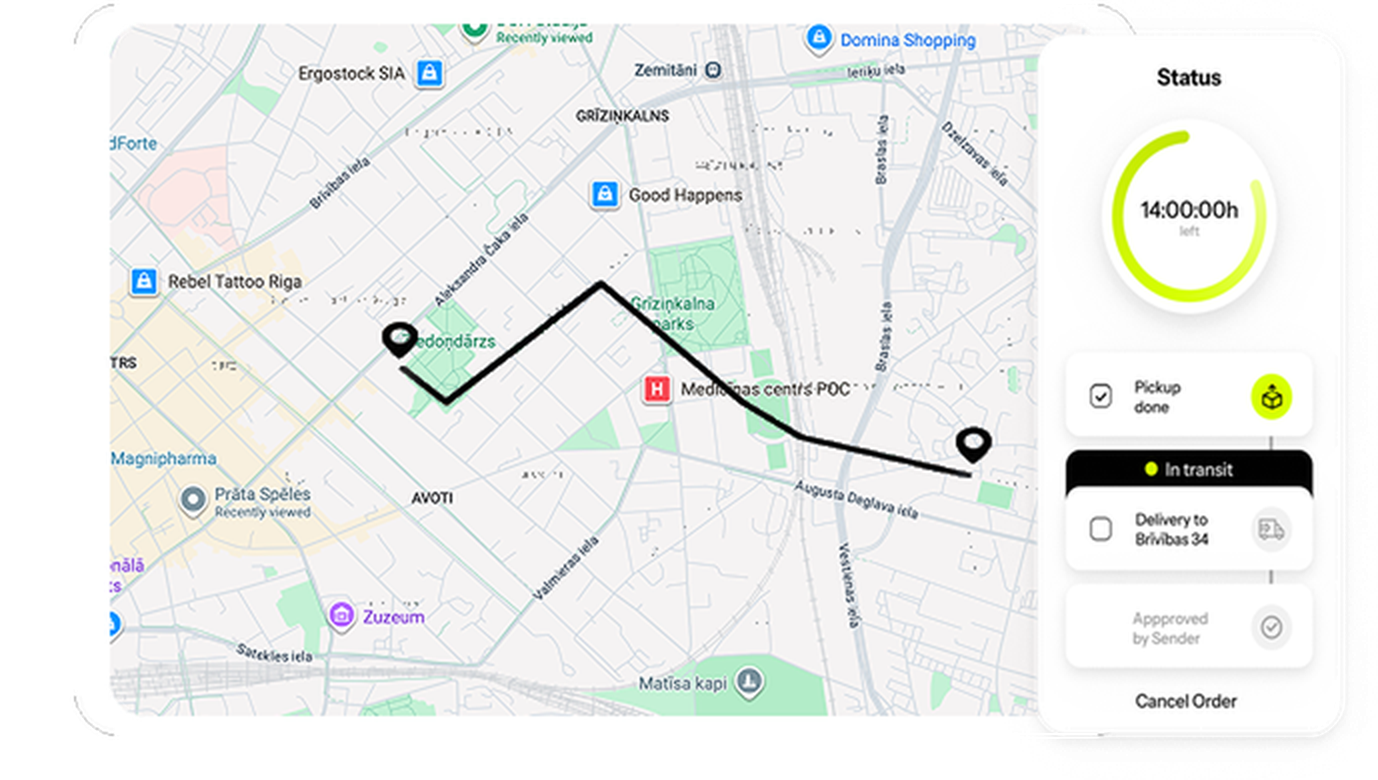
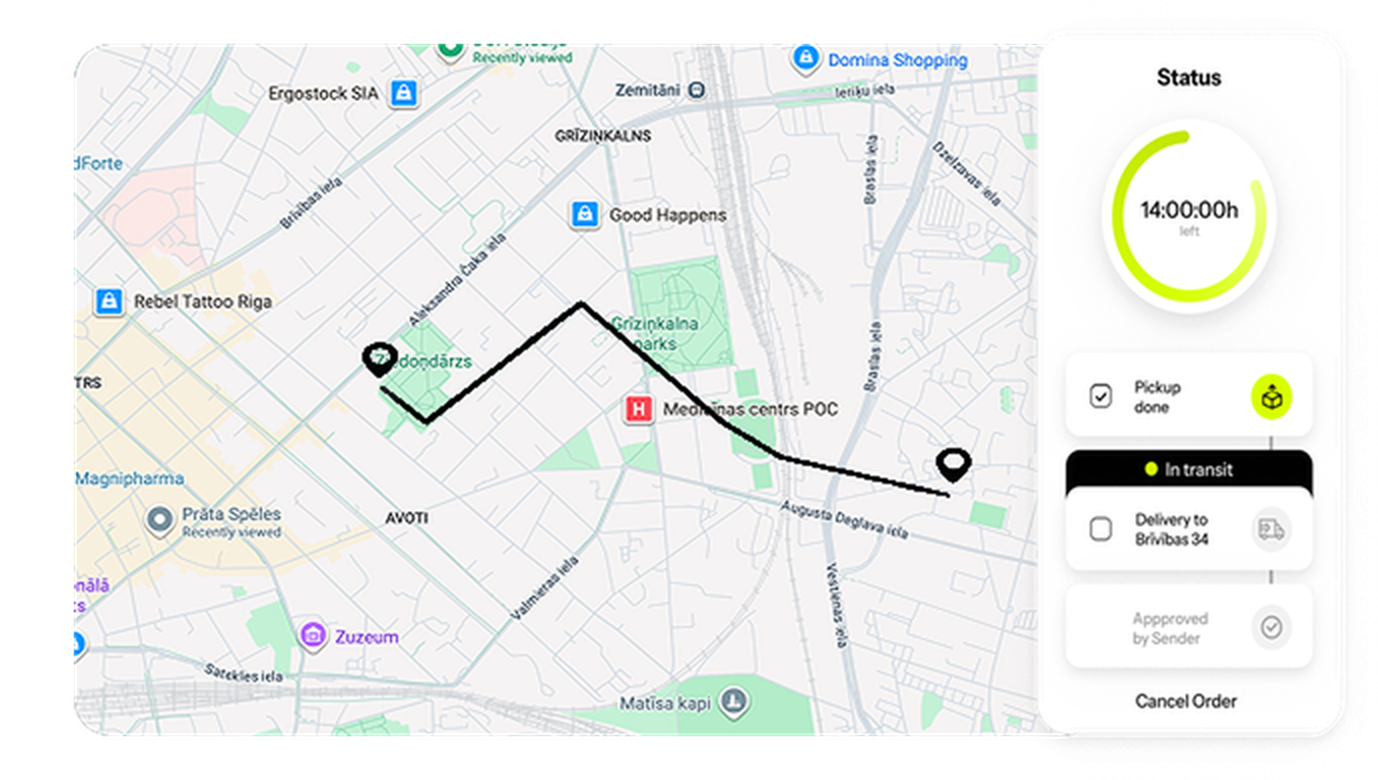
Fix carousel slide 3 map inset inside Frame 1933.
Position the map 10px inside the frame per Figma and regenerate slide 3 assets.

Changed region(s): [[0.0312, 0.0308, 0.7801, 0.9538]]

diff --git a/assets/react/islands/pages/Landing/components/CarouselSlide3Visual.module.css b/assets/react/islands/pages/Landing/components/CarouselSlide3Visual.module.css
@@ -1,4 +1,4 @@
-/* Frame 1762 + map (Frame 1933 shadow at 27/29, map art at 37/39) + phone. */
+/* Frame 1762 + Frame 1933 (27/12) + map inset 10px (37/22, 512×346) + phone. */
 .stage {
 	--stage-w: 689;
 	--stage-h: 407;
@@ -9,10 +9,11 @@
 	--frame-top: 12;
 	--frame-w: 532;
 	--frame-h: 366;
+	--map-inset: 10;
 	--map-left: 37;
-	--map-top: 2;
-	--map-w: 532;
-	--map-h: 366;
+	--map-top: 22;
+	--map-w: 512;
+	--map-h: 346;
 	--phone-left: 500;
 	--phone-w: 189;
 	--phone-h: 390;
@@ -90,9 +91,9 @@
 
 	.map {
 		left: 37px;
-		top: 2px;
-		width: 532px;
-		height: 366px;
+		top: 22px;
+		width: 512px;
+		height: 346px;
 	}
 
 	.phone {

diff --git a/assets/react/islands/pages/Landing/components/CarouselSlide3Visual.tsx b/assets/react/islands/pages/Landing/components/CarouselSlide3Visual.tsx
@@ -30,8 +30,8 @@ export const CarouselSlide3Visual: FC = () => (
 		<img
 			src={carouselSlide3Map}
 			alt=""
-			width={1064}
-			height={732}
+			width={1024}
+			height={692}
 			className={styles.map}
 			loading="lazy"
 			decoding="async"

diff --git a/scripts/build-carousel-slide-3-content.py b/scripts/build-carousel-slide-3-content.py
@@ -25,13 +25,16 @@ ACCENT_OUT = IMG / "carousel-slide-3-accent.png"
 CONTENT_OUT = IMG / "carousel-slide-3-content.png"
 
 CONTENT_W, CONTENT_H = 689, 390
-MAP_W, MAP_H = 532, 366
-MAP_X, MAP_Y = 37, 2
+FRAME_W, FRAME_H = 532, 366
 FRAME_X, FRAME_Y = 27, 12
-MAP_TILE_W, MAP_TILE_H = 496, 346
-MAP_TILE_X, MAP_TILE_Y = 18, 10
+MAP_INSET = 10
+MAP_W, MAP_H = FRAME_W - MAP_INSET * 2, FRAME_H - MAP_INSET * 2
+MAP_X, MAP_Y = FRAME_X + MAP_INSET, FRAME_Y + MAP_INSET
+MAP_TILE_W, MAP_TILE_H = MAP_W, MAP_H
+MAP_TILE_X, MAP_TILE_Y = 0, 0
 PHONE_W, PHONE_H = 189, 390
 PHONE_X, PHONE_Y = 500, 0
+FRAME_SOURCE_W, FRAME_SOURCE_H = FRAME_W * 2, FRAME_H * 2
 MAP_SOURCE_W, MAP_SOURCE_H = MAP_W * 2, MAP_H * 2
 SCALE_W, SCALE_H = CONTENT_W * 2, CONTENT_H * 2
 
@@ -143,16 +146,16 @@ def detect_map_bbox(mockup: Image.Image) -> tuple[int, int, int, int]:
 def frame_mask() -> Image.Image:
 	frame = crop_content(
 		strip_light_matte(strip_black_matte(Image.open(FRAME_SRC)))
-	).resize((MAP_W, MAP_H), Image.Resampling.LANCZOS)
+	).resize((FRAME_W, FRAME_H), Image.Resampling.LANCZOS)
 	return frame.split()[3]
 
 
-def extract_route_and_shadow(art: Image.Image) -> Image.Image:
-	layer = Image.new("RGBA", (MAP_W, MAP_H), (0, 0, 0, 0))
+def extract_route_and_shadow(art: Image.Image, width: int, height: int) -> Image.Image:
+	layer = Image.new("RGBA", (width, height), (0, 0, 0, 0))
 	src = art.load()
 	out = layer.load()
-	for y in range(MAP_H):
-		for x in range(MAP_W):
+	for y in range(height):
+		for x in range(width):
 			r, g, b, a = src[x, y]
 			if a < 40 or is_lime_accent(r, g, b, a):
 				continue
@@ -164,12 +167,12 @@ def extract_route_and_shadow(art: Image.Image) -> Image.Image:
 	return layer
 
 
-def extract_route_only(art: Image.Image) -> Image.Image:
-	layer = Image.new("RGBA", (MAP_W, MAP_H), (0, 0, 0, 0))
+def extract_route_only(art: Image.Image, width: int, height: int) -> Image.Image:
+	layer = Image.new("RGBA", (width, height), (0, 0, 0, 0))
 	src = art.load()
 	out = layer.load()
-	for y in range(MAP_H):
-		for x in range(MAP_W):
+	for y in range(height):
+		for x in range(width):
 			r, g, b, a = src[x, y]
 			if a < 40 or is_lime_accent(r, g, b, a):
 				continue
@@ -178,12 +181,12 @@ def extract_route_only(art: Image.Image) -> Image.Image:
 	return layer
 
 
-def extract_shadow_only(art: Image.Image) -> Image.Image:
-	layer = Image.new("RGBA", (MAP_W, MAP_H), (0, 0, 0, 0))
+def extract_shadow_only(art: Image.Image, width: int, height: int) -> Image.Image:
+	layer = Image.new("RGBA", (width, height), (0, 0, 0, 0))
 	src = art.load()
 	out = layer.load()
-	for y in range(MAP_H):
-		for x in range(MAP_W):
+	for y in range(height):
+		for x in range(width):
 			r, g, b, a = src[x, y]
 			if a < 40 or is_lime_accent(r, g, b, a):
 				continue
@@ -194,14 +197,14 @@ def extract_shadow_only(art: Image.Image) -> Image.Image:
 
 def mockup_art() -> Image.Image:
 	mockup = Image.open(MOCKUP_SRC).convert("RGBA")
-	return mockup.crop(detect_map_bbox(mockup)).resize((MAP_W, MAP_H), Image.Resampling.LANCZOS)
+	return mockup.crop(detect_map_bbox(mockup)).resize((FRAME_W, FRAME_H), Image.Resampling.LANCZOS)
 
 
 def build_frame_plate(art: Image.Image) -> Image.Image:
 	mask = frame_mask()
-	plate = Image.new("RGBA", (MAP_W, MAP_H), (0, 0, 0, 0))
-	plate.paste(Image.new("RGBA", (MAP_W, MAP_H), (255, 255, 255, 255)), (0, 0), mask)
-	plate.alpha_composite(extract_shadow_only(art))
+	plate = Image.new("RGBA", (FRAME_W, FRAME_H), (0, 0, 0, 0))
+	plate.paste(Image.new("RGBA", (FRAME_W, FRAME_H), (255, 255, 255, 255)), (0, 0), mask)
+	plate.alpha_composite(extract_shadow_only(art, FRAME_W, FRAME_H))
 	return plate
 
 
@@ -211,7 +214,10 @@ def build_map_layer(art: Image.Image) -> Image.Image:
 	)
 	layer = Image.new("RGBA", (MAP_W, MAP_H), (0, 0, 0, 0))
 	layer.paste(tile, (MAP_TILE_X, MAP_TILE_Y), tile)
-	layer.alpha_composite(extract_route_only(art))
+	route = extract_route_only(art, FRAME_W, FRAME_H).crop(
+		(MAP_INSET, MAP_INSET, FRAME_W - MAP_INSET, FRAME_H - MAP_INSET)
+	)
+	layer.alpha_composite(route)
 	return layer
 
 
@@ -227,13 +233,13 @@ def build_map_card() -> Image.Image:
 	art = mockup_art()
 
 	tile = Image.open(MAP_TILE_SRC).convert("RGBA").resize(
-		(MAP_TILE_W, MAP_TILE_H), Image.Resampling.LANCZOS
+		(MAP_W, MAP_H), Image.Resampling.LANCZOS
 	)
 
-	card = Image.new("RGBA", (MAP_W, MAP_H), (0, 0, 0, 0))
-	card.paste(Image.new("RGBA", (MAP_W, MAP_H), (255, 255, 255, 255)), (0, 0), mask)
-	card.paste(tile, (MAP_TILE_X, MAP_TILE_Y), tile)
-	card.alpha_composite(extract_route_and_shadow(art))
+	card = Image.new("RGBA", (FRAME_W, FRAME_H), (0, 0, 0, 0))
+	card.paste(Image.new("RGBA", (FRAME_W, FRAME_H), (255, 255, 255, 255)), (0, 0), mask)
+	card.paste(tile, (MAP_INSET, MAP_INSET), tile)
+	card.alpha_composite(extract_route_and_shadow(art, FRAME_W, FRAME_H))
 	return card
 
 
@@ -241,9 +247,9 @@ def prepare_layer_exports() -> None:
 	art = mockup_art()
 	frame = build_frame_plate(art)
 	map_layer = build_map_layer(art)
-	frame.resize((MAP_SOURCE_W, MAP_SOURCE_H), Image.Resampling.LANCZOS).save(FRAME_OUT, optimize=True)
+	frame.resize((FRAME_SOURCE_W, FRAME_SOURCE_H), Image.Resampling.LANCZOS).save(FRAME_OUT, optimize=True)
 	map_layer.resize((MAP_SOURCE_W, MAP_SOURCE_H), Image.Resampling.LANCZOS).save(MAP_OUT, optimize=True)
-	print(f"saved {FRAME_OUT} ({MAP_SOURCE_W}x{MAP_SOURCE_H})")
+	print(f"saved {FRAME_OUT} ({FRAME_SOURCE_W}x{FRAME_SOURCE_H})")
 	print(f"saved {MAP_OUT} ({MAP_SOURCE_W}x{MAP_SOURCE_H})")
 
 
@@ -261,7 +267,7 @@ def prepare_phone() -> None:
 
 def prepare_map_source() -> None:
 	card = build_map_card()
-	out = card.resize((MAP_SOURCE_W, MAP_SOURCE_H), Image.Resampling.LANCZOS)
+	out = card.resize((FRAME_SOURCE_W, FRAME_SOURCE_H), Image.Resampling.LANCZOS)
 	out.save(MAP_SRC, optimize=True)
 	print(f"saved {MAP_SRC} ({out.size[0]}x{out.size[1]})")
 
@@ -277,12 +283,12 @@ def prepare_accent() -> None:
 
 
 def build_content() -> None:
-	if not MAP_SRC.exists():
-		raise SystemExit(f"Missing map source: {MAP_SRC}")
+	if not MAP_OUT.exists():
+		raise SystemExit(f"Missing map layer: {MAP_OUT}")
 	if not PHONE_OUT.exists() and not PHONE_SRC.exists():
 		raise SystemExit(f"Missing phone source: {PHONE_SRC}")
 
-	map_img = Image.open(MAP_SRC).convert("RGBA").resize((MAP_W, MAP_H), Image.Resampling.LANCZOS)
+	map_img = Image.open(MAP_OUT).convert("RGBA").resize((MAP_W, MAP_H), Image.Resampling.LANCZOS)
 	phone_img = Image.open(PHONE_OUT).convert("RGBA").resize(
 		(PHONE_W, PHONE_H), Image.Resampling.LANCZOS
 	)